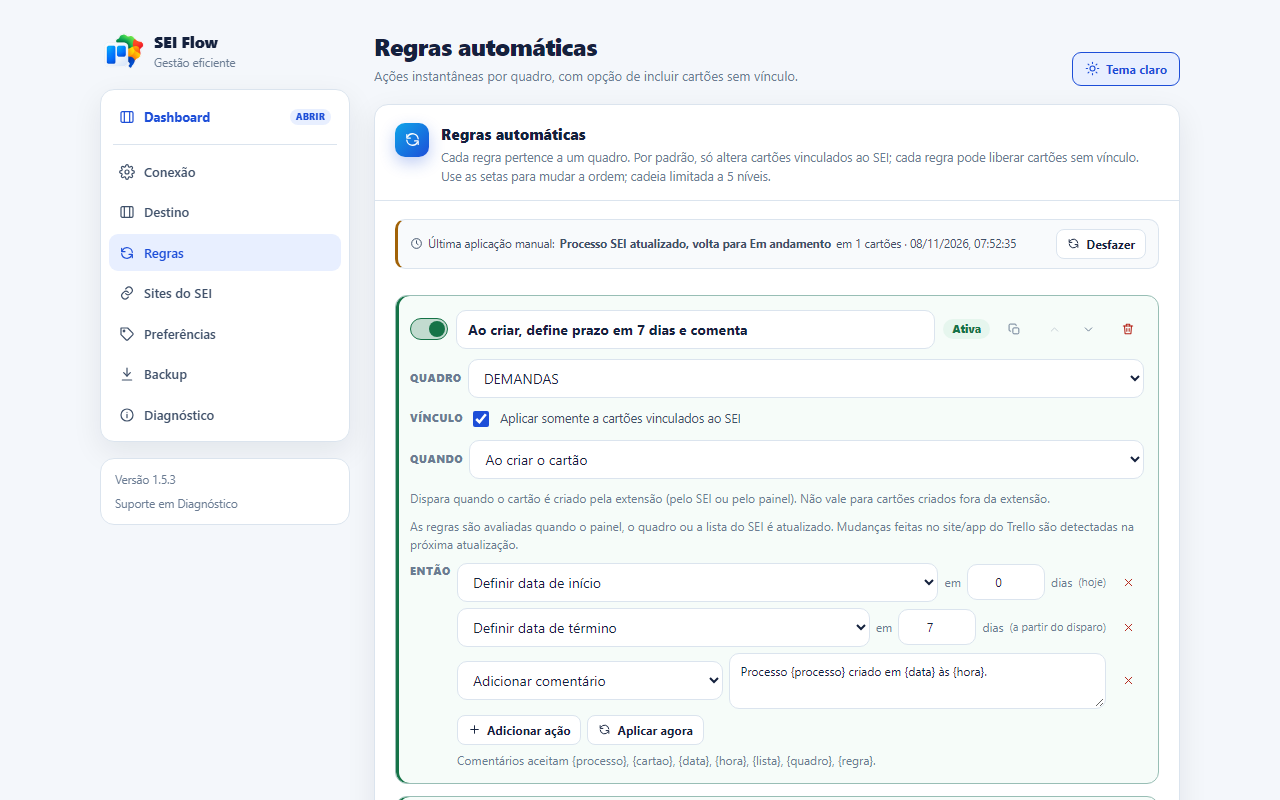
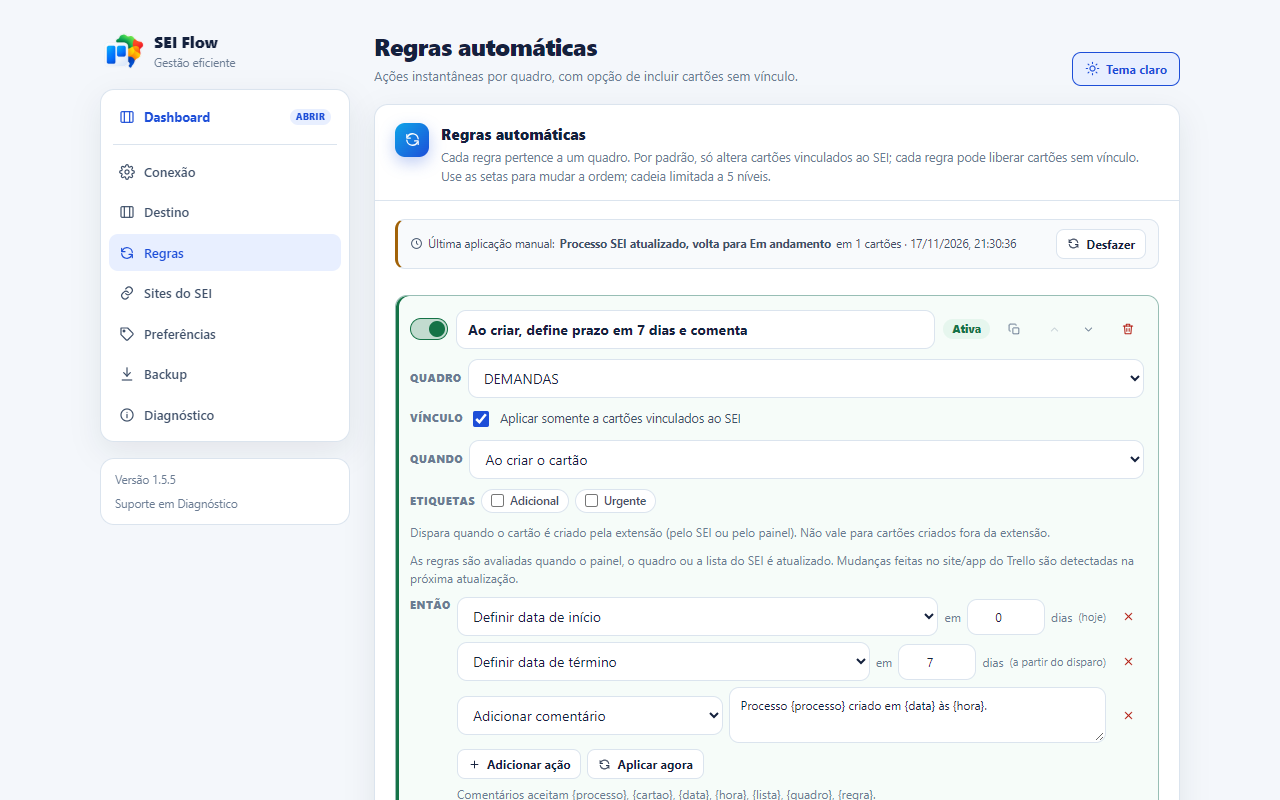
feat: kanban, espelho, anexos e ajustes de ui da 1.5.5
Kanban com arraste pelo grip, editor WYSIWYG, anexos, compartilhar/clonar, espelho de cartao, regras por etiqueta, filtros antes das listas com recolher, rodape e chips ajustados.

diff --git a/src/entrypoints/dashboard/main.tsx b/src/entrypoints/dashboard/main.tsx
@@ -1276,6 +1276,46 @@ function Dashboard() {
         </button>
       </section>
 
+      {showFilters && (
+        <DashboardFilters
+          filters={filters}
+          boards={boards}
+          lists={lists}
+          labels={labels}
+          types={types}
+          visibleCount={visibleCards.length}
+          totalCount={cards.length}
+          lastVisit={lastVisit}
+          onChange={updateFilters}
+          onClear={clearFilters}
+          onMarkSeen={markSeen}
+          onExport={exportCsv}
+          onCollapse={() => setShowFilters(false)}
+          showSearch={false}
+        />
+      )}
+
+      {activeChips.length > 0 && (
+        <div className="sdo-active-chips">
+          <span className="sdo-active-chips__label">Filtros ativos</span>
+          {activeChips.map((chip) => (
+            <button
+              key={chip.key}
+              type="button"
+              className="sdo-chip sdo-chip--removable"
+              onClick={() => updateFilters(chip.clear)}
+              title={`Remover filtro: ${chip.label}`}
+            >
+              {chip.label}
+              <Icon name="close" size={10} />
+            </button>
+          ))}
+          <button type="button" className="sdo-chip sdo-chip--clear" onClick={clearFilters}>
+            <Icon name="close" size={11} /> Limpar
+          </button>
+        </div>
+      )}
+
       {view === 'list' && filters.boardId && listCounts.length > 0 && (
         <section className="sdo-lists" aria-label="Cartões por lista">
           <div className="sdo-lists__head">
@@ -1364,44 +1404,7 @@ function Dashboard() {
         </section>
       )}
 
-      {activeChips.length > 0 && (
-        <div className="sdo-active-chips">
-          <span className="sdo-active-chips__label">Filtros ativos</span>
-          {activeChips.map((chip) => (
-            <button
-              key={chip.key}
-              type="button"
-              className="sdo-chip sdo-chip--removable"
-              onClick={() => updateFilters(chip.clear)}
-              title={`Remover filtro: ${chip.label}`}
-            >
-              {chip.label}
-              <Icon name="close" size={10} />
-            </button>
-          ))}
-          <button type="button" className="sdo-chip sdo-chip--clear" onClick={clearFilters}>
-            <Icon name="close" size={11} /> Limpar
-          </button>
-        </div>
-      )}
 
-      {showFilters && (
-        <DashboardFilters
-          filters={filters}
-          boards={boards}
-          lists={lists}
-          labels={labels}
-          types={types}
-          visibleCount={visibleCards.length}
-          totalCount={cards.length}
-          lastVisit={lastVisit}
-          onChange={updateFilters}
-          onClear={clearFilters}
-          onMarkSeen={markSeen}
-          onExport={exportCsv}
-          showSearch={false}
-        />
-      )}
 
       {loading ? (
         <div className="sdo-loading">

diff --git a/src/entrypoints/dashboard/DashboardFilters.tsx b/src/entrypoints/dashboard/DashboardFilters.tsx
@@ -42,6 +42,7 @@ export interface DashboardFiltersProps {
   onClear: () => void;
   onMarkSeen: () => void;
   onExport: () => void;
+  onCollapse?: () => void;
   showSearch?: boolean;
 }
 
@@ -58,6 +59,7 @@ export function DashboardFilters({
   onClear,
   onMarkSeen,
   onExport,
+  onCollapse,
   showSearch = true,
 }: DashboardFiltersProps) {
   const active = activeFilterCount(filters);
@@ -81,7 +83,12 @@ export function DashboardFilters({
   };
 
   return (
-    <section className="sdo-filters">
+    <section
+      className="sdo-filters"
+      onClick={(event) => {
+        if (event.target === event.currentTarget) onCollapse?.();
+      }}
+    >
       <div className={`sdo-filters__top${showSearch ? '' : ' sdo-filters__top--actions-only'}`}>
         {showSearch && (
           <div className="sdo-search">
@@ -109,6 +116,12 @@ export function DashboardFilters({
         )}
 
         <div className="sdo-filters__actions">
+          {onCollapse && (
+            <button type="button" className="sfo-btn sfo-btn--sm" onClick={onCollapse}>
+              <Icon name="chevronUp" size={14} />
+              Recolher
+            </button>
+          )}
           <button type="button" className="sfo-btn sfo-btn--sm" onClick={onExport}>
             <Icon name="external" size={14} />
             Exportar CSV

diff --git a/src/entrypoints/dashboard/style.css b/src/entrypoints/dashboard/style.css
@@ -2,7 +2,7 @@
   position: relative;
   max-width: 1280px;
   margin: 0 auto;
-  padding: 26px 22px 64px;
+  padding: 26px 22px 20px;
 }
 
 .sdo-page::before {
@@ -659,7 +659,7 @@
   display: flex;
   flex-wrap: wrap;
   align-items: center;
-  gap: 5px;
+  gap: 7px;
   margin: 9px 2px 0;
 }
 
@@ -677,12 +677,12 @@
   align-items: center;
   gap: 4px;
   max-width: 100%;
-  padding: 3px 8px;
+  padding: 5px 11px;
   border: 1px solid transparent;
   border-radius: 999px;
   background: rgba(234, 242, 255, 0.9);
   color: var(--accent);
-  font-size: 11px;
+  font-size: 11.5px;
   font-weight: 700;
   white-space: nowrap;
 }
@@ -695,7 +695,7 @@
 
 .sdo-chip--removable {
   font: inherit;
-  font-size: 11px;
+  font-size: 11.5px;
   font-weight: 700;
   cursor: pointer;
   transition:
@@ -1923,8 +1923,8 @@
   flex-wrap: wrap;
   justify-content: space-between;
   gap: 8px;
-  margin-top: 24px;
-  padding-top: 16px;
+  margin-top: 12px;
+  padding-top: 8px;
   border-top: 1px solid rgba(219, 228, 238, 0.8);
   color: var(--muted);
   font-size: 11.5px;

diff --git a/e2e/dashboard-kanban.spec.ts b/e2e/dashboard-kanban.spec.ts
@@ -502,6 +502,26 @@ test('exclusão de espelho pode remover todos', async ({ page }) => {
   expect(deleteCall?.payload?.deleteMirrors).toBe(true);
 });
 
+test('filtros abrem antes das listas e recolhem', async ({ page }) => {
+  await stubDashboard(page);
+  await openDashboard(page);
+
+  const filtersButton = page.getByRole('button', { name: /^Filtros/ });
+  await filtersButton.click();
+  const filters = page.locator('.sdo-filters');
+  const lists = page.locator('.sdo-lists');
+  await expect(filters).toBeVisible();
+  await expect(lists).toBeVisible();
+  const positions = await Promise.all([
+    filters.evaluate((element) => element.getBoundingClientRect().top),
+    lists.evaluate((element) => element.getBoundingClientRect().top),
+  ]);
+  expect(positions[0]).toBeLessThan(positions[1]);
+
+  await filters.getByRole('button', { name: 'Recolher' }).click();
+  await expect(filters).toHaveCount(0);
+});
+
 test('kanban move cartão com o teclado', async ({ page }) => {  await stubDashboard(page);
   await openDashboard(page);
 

diff --git a/docs/store/listing-pt-BR.md b/docs/store/listing-pt-BR.md
@@ -45,6 +45,13 @@ O SEI Flow conecta o Trello ao SEI (Sistema Eletrônico de Informações) para v
 • Funciona em qualquer domínio e versão do SEI (3.x, 4.x e 5.x).
 • Ative apenas os sites que você usa, com opção de ativar automaticamente endereços que começam com "sei"; sem permissão global obrigatória.
 • Backup das configurações e regras para levar a outro computador.
+• **Kanban no dashboard**: arraste cartões entre colunas, reordene colunas, use rolagem por coluna e desfaça com Ctrl+Z.
+• **Editor de descrição WYSIWYG**: formate texto e links sem precisar saber Markdown.
+• **Anexos**: envie arquivos até 10MB, anexe por link, liste, abra e exclua.
+• **Compartilhe e clone**: copie link, clone cartões para outro quadro/lista, copie quadros e crie espelhos sincronizados.
+• **Espelho de cartão**: nome e descrição ficam sincronizados; ao excluir, escolha só este ou todos os espelhos.
+• **Fixe cartões** no topo das listas e grupos.
+• **Regras por etiqueta**: exija qualquer uma ou todas as etiquetas, combinadas com a lista.
 
 Privacidade: sem servidor próprio, sem telemetria e sem anúncios. As credenciais do Trello ficam apenas no seu navegador. O SEI Flow não salva dados de usuários fora do navegador. O uso é de responsabilidade exclusiva do usuário; o criador não tem ingerência sobre informações do SEI ou do Trello.
 
@@ -94,10 +101,10 @@ Integrar cartões do Trello a processos do SEI, permitindo criar, vincular, visu
 Os arquivos estão em `docs/store/screenshots-1280x800/` (gerados por `node scripts/store-screenshots.mjs`). A Chrome Web Store aceita até 5 imagens; a ordem recomendada é:
 
 1. `dashboard-1280x800.png` - painel inicial com métricas, total do quadro, listas na ordem do Trello e ordenação por lista.
-2. `dashboard-dark-1280x800.png` - o mesmo painel no modo escuro.
-3. `process-1280x800.png` - processo aberto com cartões, caminho do quadro/lista e ações.
-4. `rules-1280x800.png` - regras automáticas com contador, aplicar agora e desfazer.
-5. `list-1280x800.png` - cartões anexados à lista de processos, com etiquetas e destaque de novidade.
+2. `kanban-1280x800.png` - visão Kanban com colunas, cartões compactos e arraste.
+3. `dashboard-dark-1280x800.png` - o mesmo painel no modo escuro.
+4. `process-1280x800.png` - processo aberto com cartões, caminho do quadro/lista e ações.
+5. `rules-1280x800.png` - regras automáticas com contador, aplicar agora e desfazer.
 
 Imagens adicionais para documentação: `rules-dark-1280x800.png`, `filter-1280x800.png`, `create-dialog-1280x800.png` e `options-1280x800.png`.
 

diff --git a/CHANGELOG.md b/CHANGELOG.md
@@ -3,11 +3,33 @@
 Todas as mudanças relevantes deste projeto são documentadas aqui.
 O formato segue [Keep a Changelog](https://keepachangelog.com/pt-BR/1.1.0/) e o projeto usa [SemVer](https://semver.org/lang/pt-BR/).
 
-## [Não lançado]
+## [1.5.5] - 2026-11-18
+
+### Adicionado
+
+- **Visão Kanban** no dashboard, com colunas por lista, arraste de cartões, reordenação de colunas, rolagem interna por coluna, botão **Adicionar cartão** em cada coluna, **Desfazer** e **Ctrl+Z**.
+- **Editor WYSIWYG** para descrições, com negrito, itálico, tachado, títulos, listas, citação e links, sem exigir Markdown do usuário.
+- **Anexos** no cartão: enviar arquivo até 10MB, anexar por URL, listar, abrir e excluir.
+- **Compartilhar e clonar**: copiar link, clonar cartão para outro quadro/lista, copiar quadro e **espelhar cartão**.
+- **Espelho de cartão**: nome e descrição sincronizados entre os cartões espelhados; exclusão com opção **Só este** ou **Todos os espelhos**.
+- **Fixar/favoritar cartões** no topo das listas e grupos (favorito local).
+- **Regras com condição por etiqueta**, com modo “qualquer uma” ou “todas”.
+- Dashboard mostra **cartões vinculados e sem vínculo juntos**, com filtros “Com vínculo”, “Sem vínculo” e “Todos”.
+
+### Alterado
+
+- O **+** de ação no SEI agora fica imediatamente após o número do processo.
+- O cartão do processo SEI mostra mais linhas da descrição.
+- Cartões do Kanban mais compactos, com 3 linhas de descrição, contorno de hover, espaçamento maior e grip dedicado para arrastar.
+- Filtros ativos com mais espaçamento; filtros abrem antes das listas e podem ser recolhidos.
+- Rodapé do dashboard mais próximo do conteúdo.
 
 ### Corrigido
 
-- **Regra “processo SEI atualizado”**: novidades detectadas depois do momento da atualização (por exemplo, com a extensão fechada ou aberta no painel) agora são reavaliadas na próxima leitura da lista do SEI. A regra continua rodando **uma vez por novidade**, sem repetir comentários ou datas.
+- **Regra “processo SEI atualizado”**: novidades detectadas depois do momento da atualização são reavaliadas na próxima leitura da lista, uma vez por novidade.
+- Contraste do tema escuro no SEI e no dashboard.
+- Firefox 115 ESR: mínimo do desktop em 115.0.
+- Abertura do processo mais rápida, com cache imediato e atualização em segundo plano.
 
 ## [1.5.4] - 2026-11-09
 

diff --git a/README.md b/README.md
@@ -12,8 +12,8 @@ O **Painel SEI Flow** é a página inicial da extensão: reúne prazos, etiqueta
 
 ## Baixar e instalar
 
-- **Chrome / Edge:** [sei-flow-1.5.4-chrome.zip](https://github.com/engleonardo/SEI/releases/download/v1.5.4/sei-flow-1.5.4-chrome.zip)
-- **Firefox:** [sei-flow-1.5.4-firefox.zip](https://github.com/engleonardo/SEI/releases/download/v1.5.4/sei-flow-1.5.4-firefox.zip)
+- **Chrome / Edge:** [sei-flow-1.5.5-chrome.zip](https://github.com/engleonardo/SEI/releases/download/v1.5.5/sei-flow-1.5.5-chrome.zip)
+- **Firefox:** [sei-flow-1.5.5-firefox.zip](https://github.com/engleonardo/SEI/releases/download/v1.5.5/sei-flow-1.5.5-firefox.zip)
 - **Todas as versões:** [Releases](https://github.com/engleonardo/SEI/releases)
 
 Depois de baixar, **extraia o zip** e carregue a pasta em `chrome://extensions` (ou `edge://extensions`) com o **Modo desenvolvedor** ativado. No Firefox, use `about:debugging` -> **Carregar extensão temporária** e selecione o `manifest.json` da pasta extraída.

diff --git a/docs/store/release-notes-1.5.5.md b/docs/store/release-notes-1.5.5.md
@@ -1,0 +1,11 @@
+# SEI Flow 1.5.5 - novidades
+
+- **Kanban no dashboard**: visão em colunas, arraste de cartões, reordenação de colunas, rolagem por coluna, desfazer/Ctrl+Z e botão **Adicionar cartão** em cada coluna.
+- **Editor de descrição WYSIWYG**: negrito, itálico, tachado, títulos, listas, citação e links, sem precisar saber Markdown.
+- **Anexos**: envie arquivos até 10MB, anexe por link, liste, abra e exclua.
+- **Compartilhar e clonar**: copie link, clone cartão para outro quadro/lista, copie quadro e crie **espelhos**.
+- **Espelho**: nome e descrição sincronizados entre os cartões; ao excluir, escolha **Só este** ou **Todos os espelhos**.
+- **Fixar cartões** no topo das listas e grupos.
+- **Regras por etiqueta**: condição “qualquer uma” ou “todas”, combinada com a lista.
+- **Dashboard**: cartões vinculados e sem vínculo juntos, com filtros.
+- Ajustes de contraste no tema escuro, abertura do processo mais rápida e melhorias de layout.

diff --git a/docs/store/README.md b/docs/store/README.md
@@ -5,7 +5,7 @@
 - [ ] Conta de desenvolvedor paga e verificada no Chrome Web Store.
 - [ ] `npm ci && npm run verify` passando.
 - [ ] `npm run check:package` sem nomes reservados (`_metadata`) no build.
-- [ ] `npm run build && npm run zip` gerando `.output/sei-flow-1.5.4-chrome.zip`.
+- [ ] `npm run build && npm run zip` gerando `.output/sei-flow-1.5.5-chrome.zip`.
 - [ ] Ícone 128×128 correto (`public/icon-128.png`).
 - [ ] Screenshots 1280×800 em `docs/store/screenshots-1280x800/`.
 - [ ] Banner 440×280 em `docs/store/banner-440x280.png` (opcional, para destaque).
@@ -24,7 +24,7 @@
 
 ## Após publicar
 
-- [ ] Criar uma tag `v1.5.4` (ou a versão publicada) no GitHub.
+- [ ] Criar uma tag `v1.5.5` (ou a versão publicada) no GitHub.
 - [ ] Anexar o zip ao GitHub Release.
 - [ ] Configurar os segredos da loja para o envio automático (veja `auto-publish.md`).
 - [ ] Confirmar o link da loja no README.
